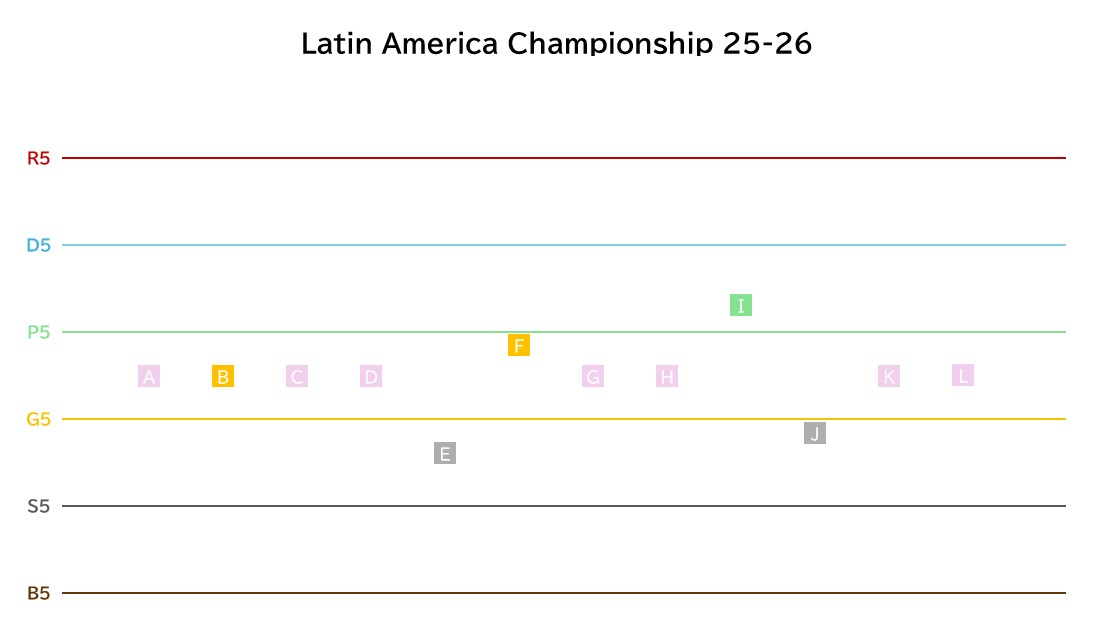
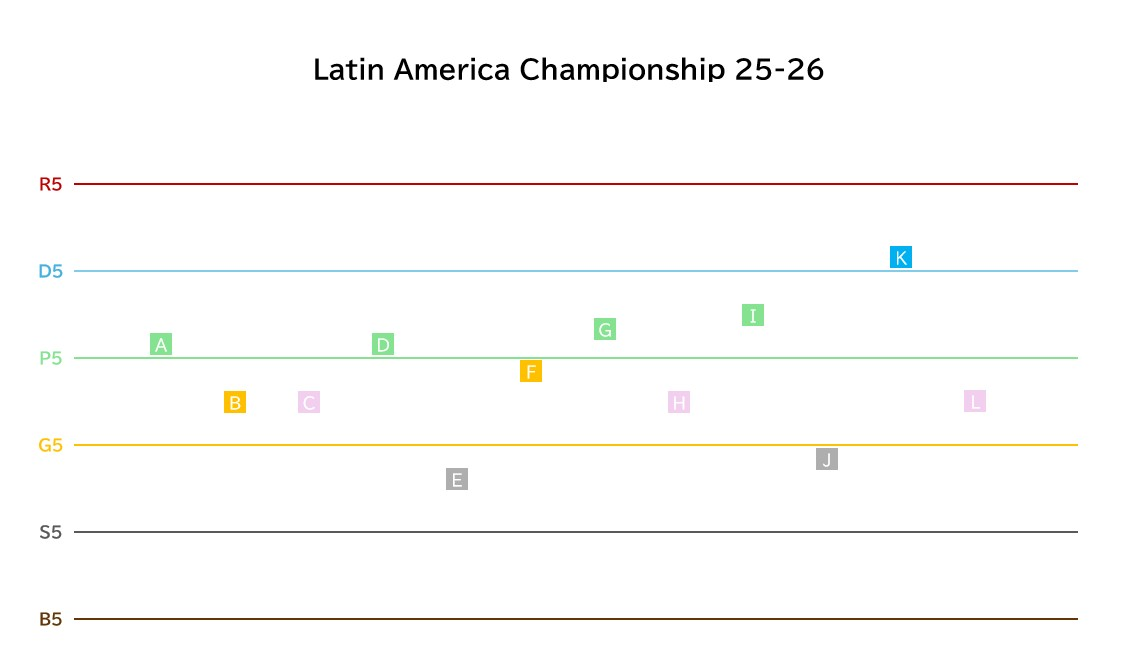
Modified README.md for LAC 2025-26

diff --git a/ICPC/LAC 2025-26/README.md b/ICPC/LAC 2025-26/README.md
@@ -5,4 +5,5 @@
 <br/>
 <br/>
 
-Pink boxes are for unsolved problem.
+Pink boxes are for unsolved problem.<br/>
+Here is also [Korean Editorial](https://www.overleaf.com/read/dvbzwhxczxcw#1f1a77) written by myself.